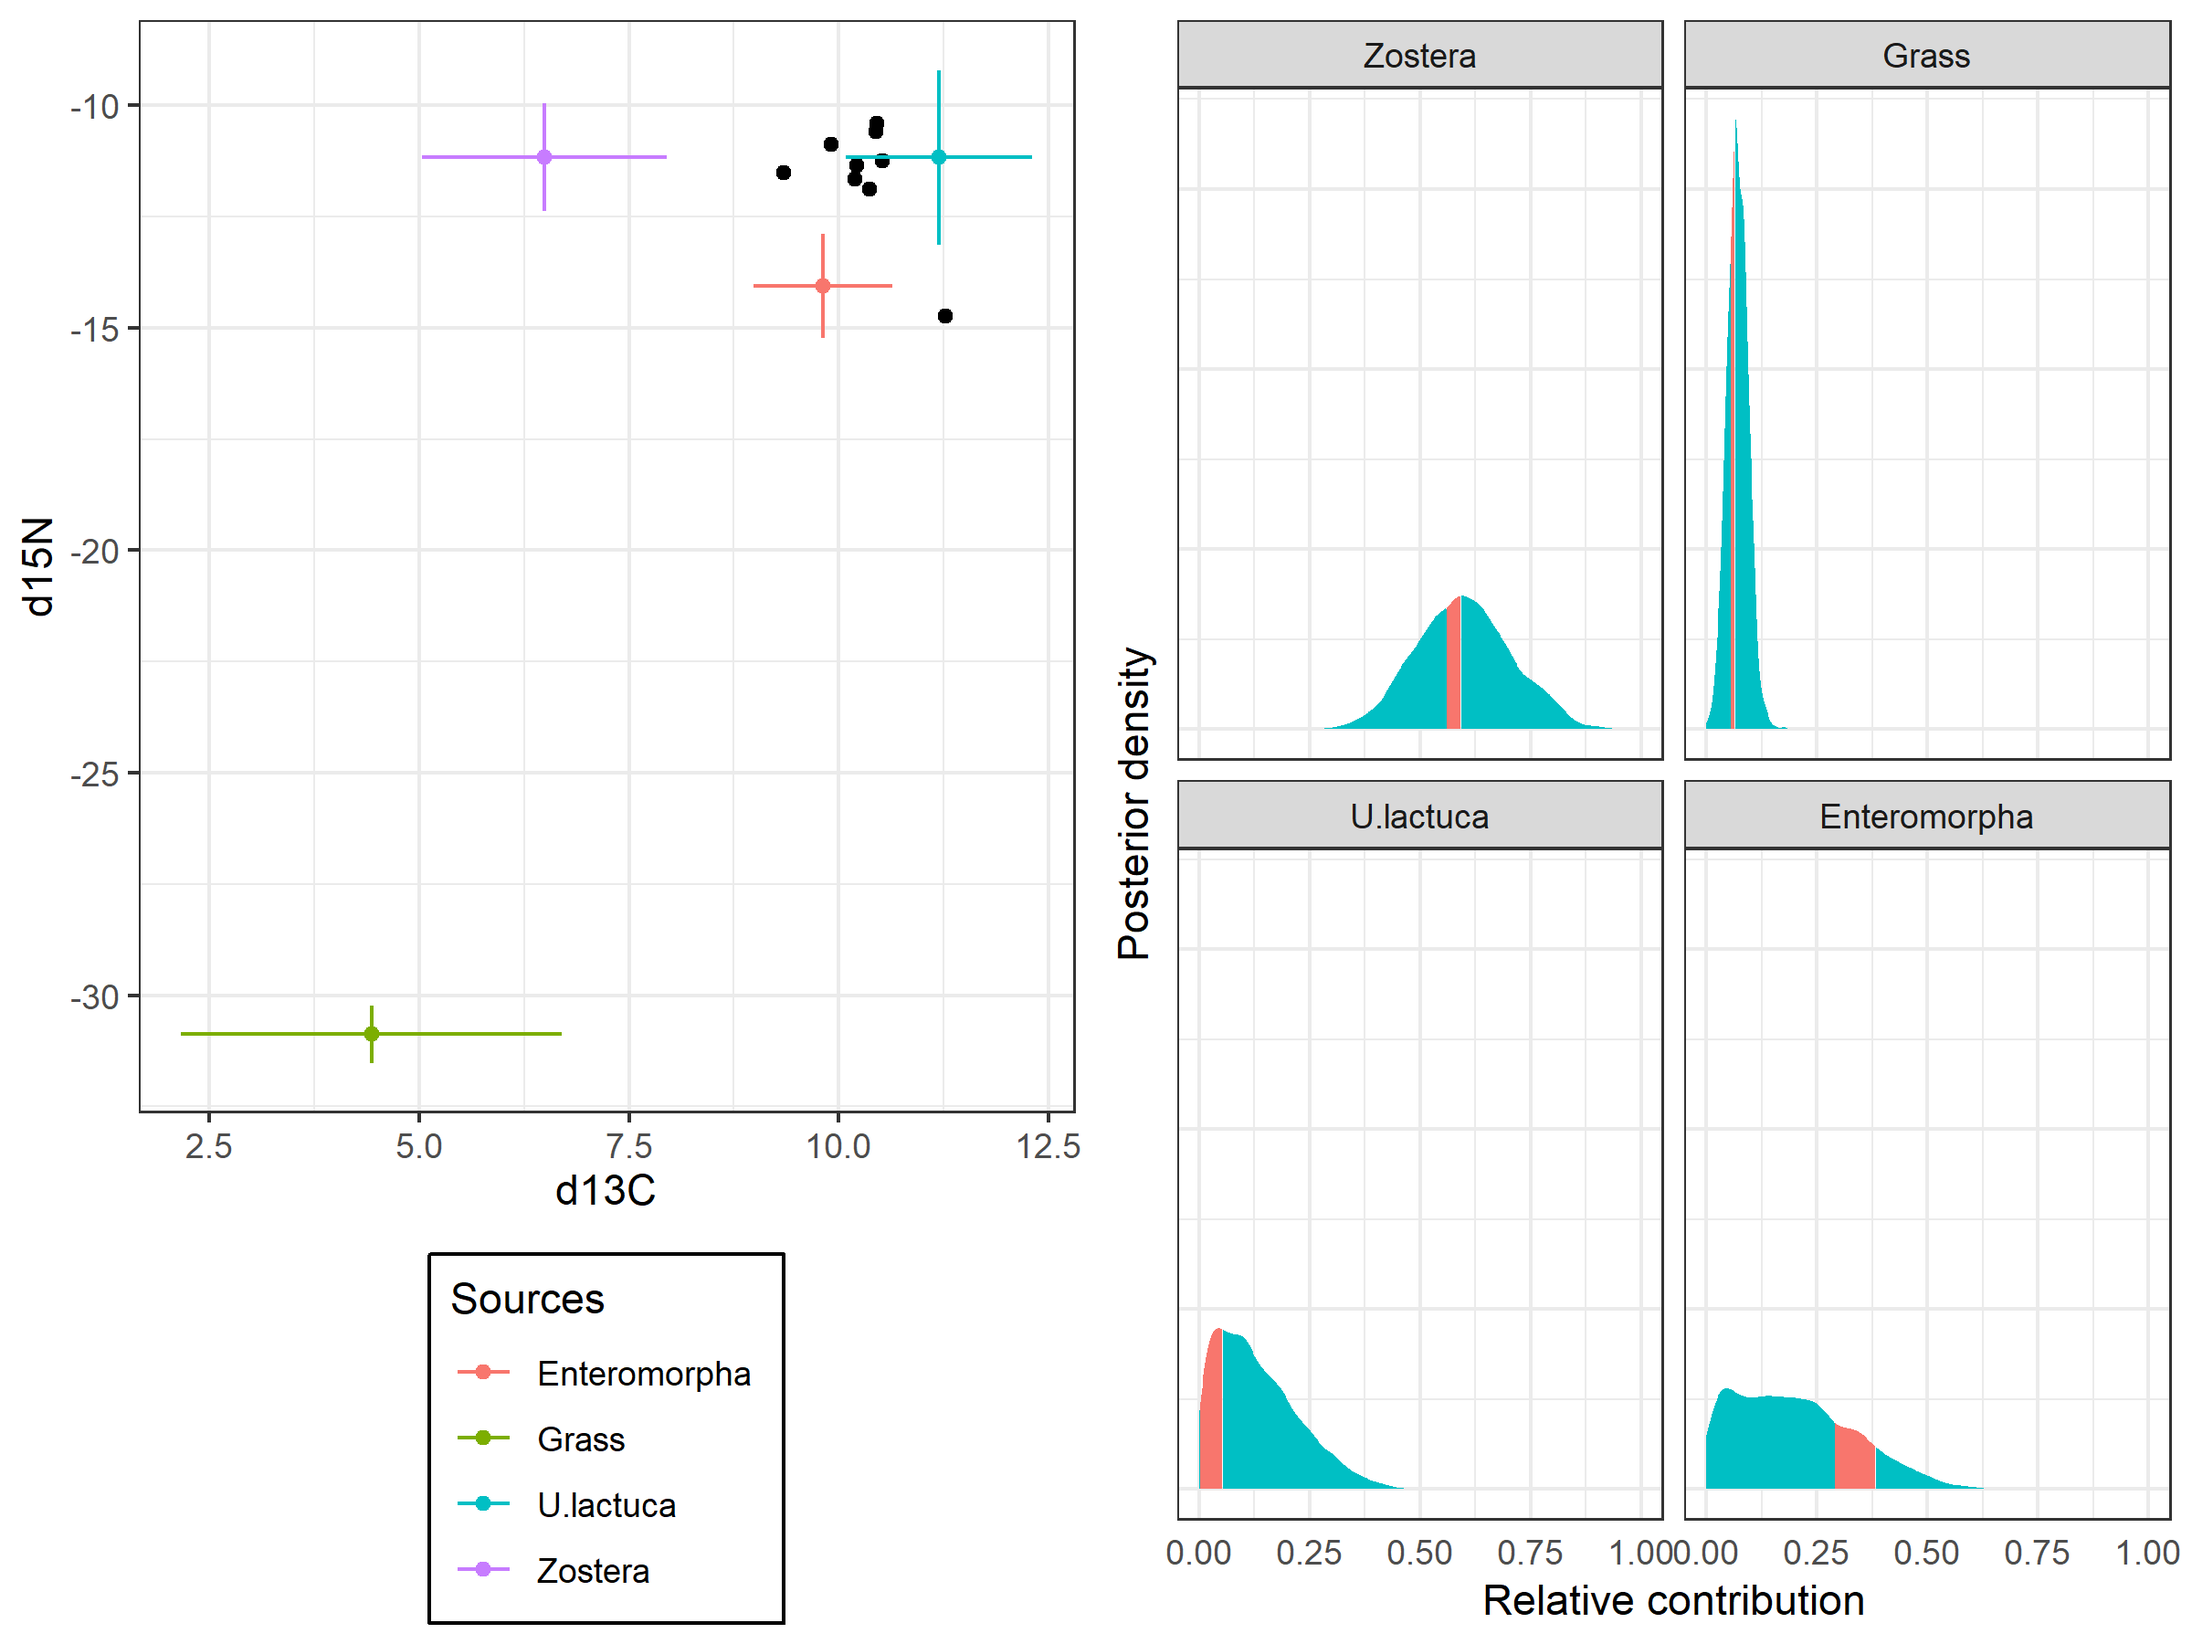
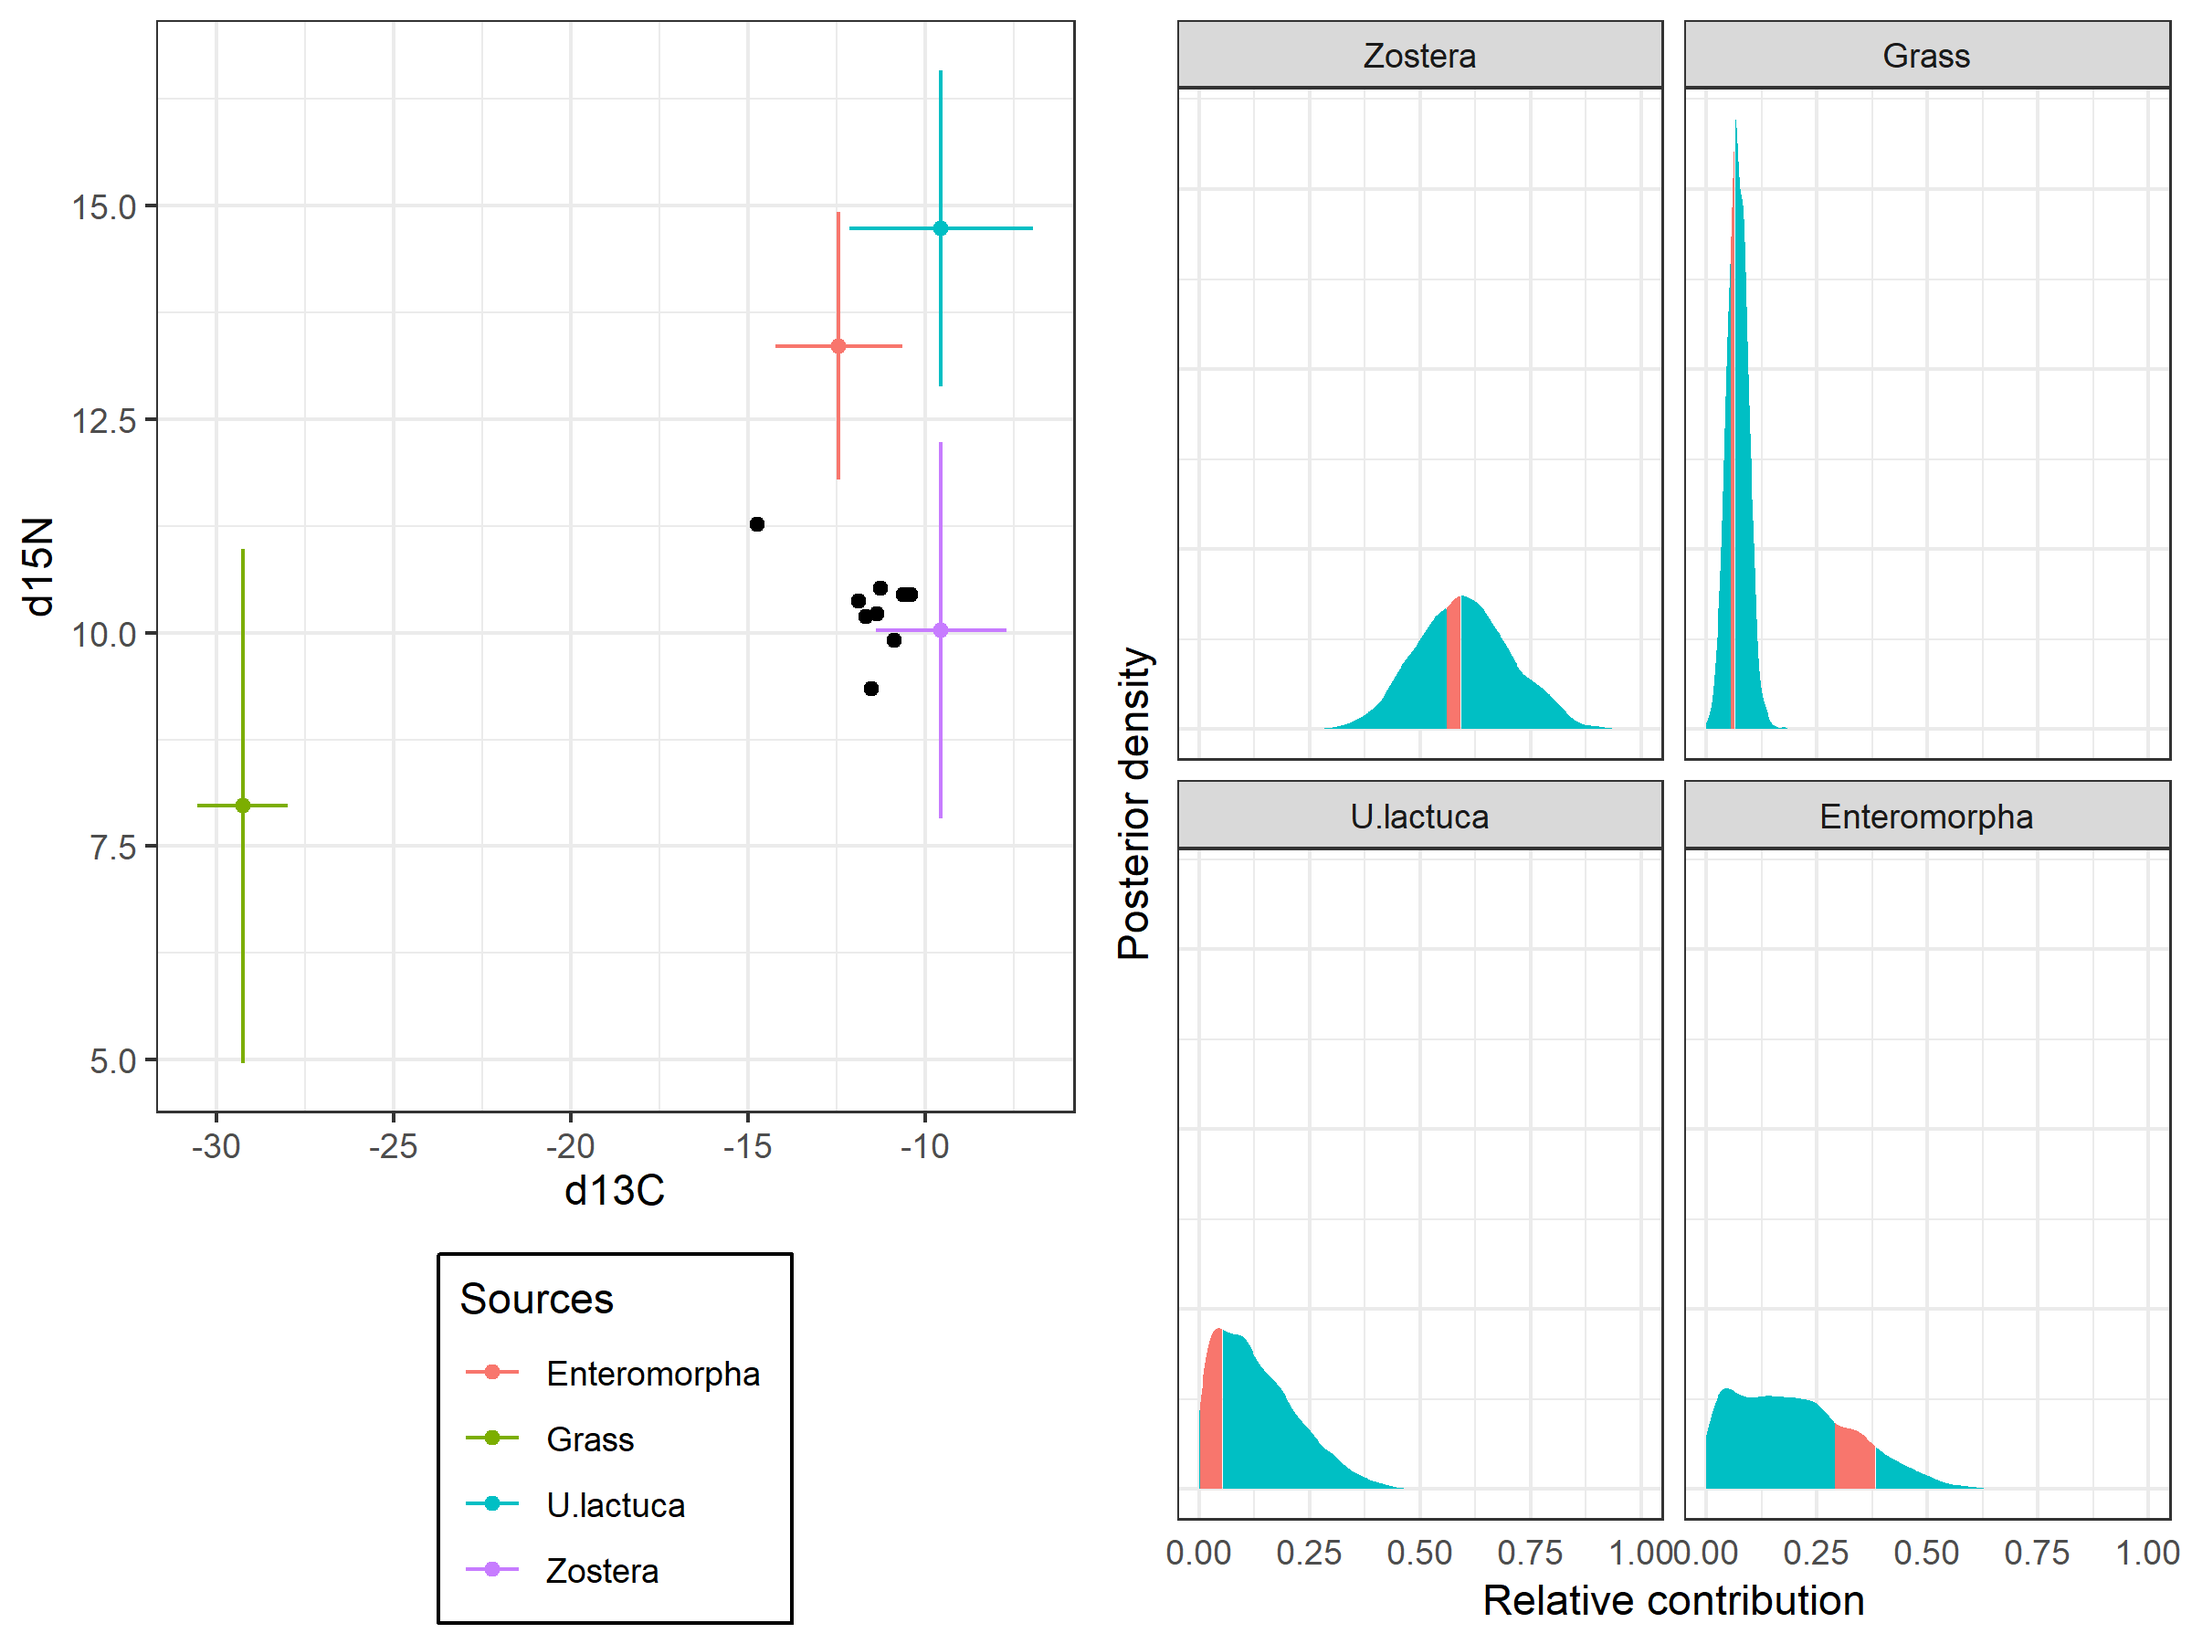
minor modification

diff --git a/simm/siarbeta/src/RcppExports.cpp b/simm/siarbeta/src/RcppExports.cpp
@@ -5,11 +5,6 @@
 
 using namespace Rcpp;
 
-#ifdef RCPP_USE_GLOBAL_ROSTREAM
-Rcpp::Rostream<true>&  Rcpp::Rcout = Rcpp::Rcpp_cout_get();
-Rcpp::Rostream<false>& Rcpp::Rcerr = Rcpp::Rcpp_cerr_get();
-#endif
-
 
 RcppExport SEXP _rcpp_module_boot_simm();
 

diff --git a/simm/siarbeta/README.md b/simm/siarbeta/README.md
@@ -4,8 +4,8 @@ A tutorial for siarbeta package.
 
 ## Installation
 ```r
-library(remotes)
-remotes::install_github("yutakaos/archives/simm/siarbeta")
+library(devtools)
+devtools::install_github("yutakaos/archives/simm/siarbeta")
 ```
 
 ## Tutorial
@@ -13,7 +13,7 @@ remotes::install_github("yutakaos/archives/simm/siarbeta")
 ### Load library and set data
 ```r
 # Load libarary
-library(siardata)
+library(siarbeta)
 
 # Set data
 library(siar)
@@ -84,7 +84,7 @@ evaluate_ump(out_H)
 
 # Plot mixing isotope space
 mixingspace(
-    mixture, sources,
+    mixture, sources, correct, axis = 2:1,
     source_names  = source_names,
     element_names = c("d13C", "d15N") )
 
@@ -95,3 +95,4 @@ plot_post(out_L, out_H, type = "source")
 <img src="tools/figures/Fig_3.png" width="70%">
 <figcaption><i>Figure 2 | Isotopic mixing space and posterior density plot.</i></figcaption>
 </figure>
+
